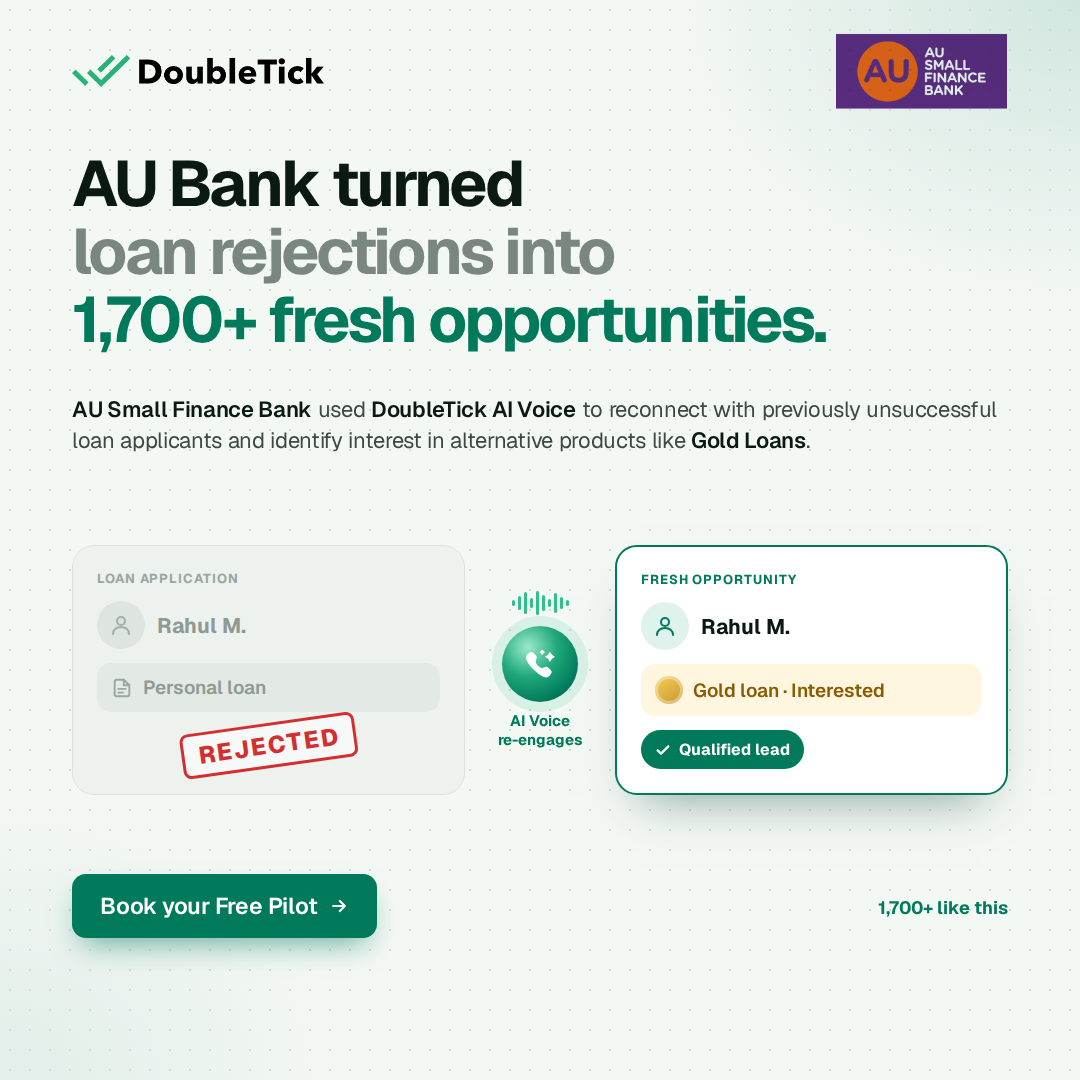
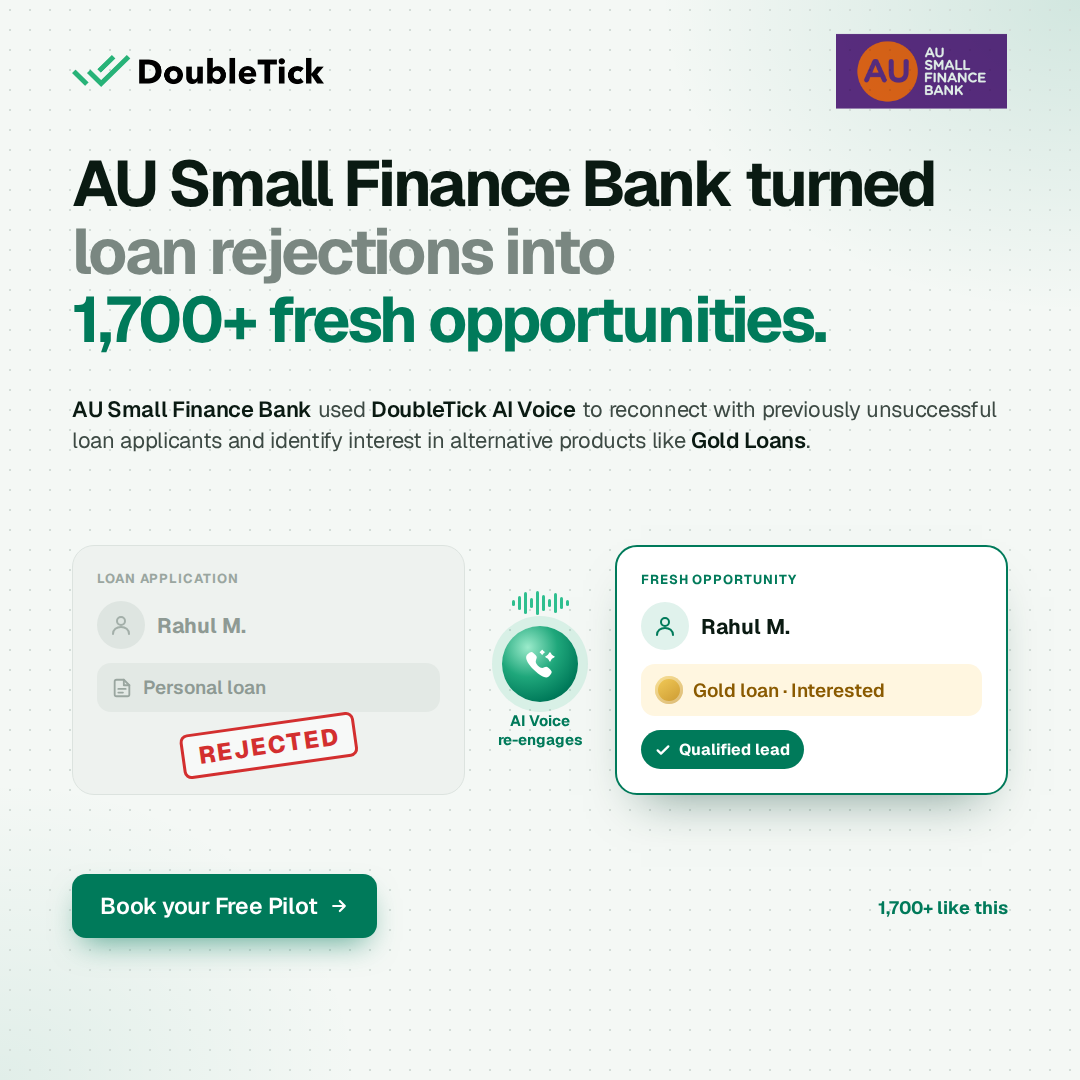
feat: full bank name in AU v9 hook
Claude-Session: https://claude.ai/code/session_013Hi5o4KgvuLbKTeGkStAKX

Changed region(s): [[0.1528, 0.1222, 0.8861, 0.2139]]

diff --git a/ads/doubletick-case-au-v9/index.html b/ads/doubletick-case-au-v9/index.html
@@ -53,7 +53,7 @@
 <body><div class="ad">
   <div class="top"><img class="logo" src="doubletick-logo.webp" alt="DoubleTick" /><img class="client" src="au-bank-logo.png" alt="AU Small Finance Bank" /></div>
 
-  <h1>AU Bank turned<br/><span class="m">loan rejections into</span><br/><em>1,700+ fresh opportunities.</em></h1>
+  <h1>AU Small Finance Bank turned<br/><span class="m">loan rejections into</span><br/><em>1,700+ fresh opportunities.</em></h1>
   <p class="sub"><b>AU Small Finance Bank</b> used <b>DoubleTick AI Voice</b> to reconnect with previously unsuccessful loan applicants and identify interest in alternative products like <b>Gold Loans</b>.</p>
 
   <div class="vis">
